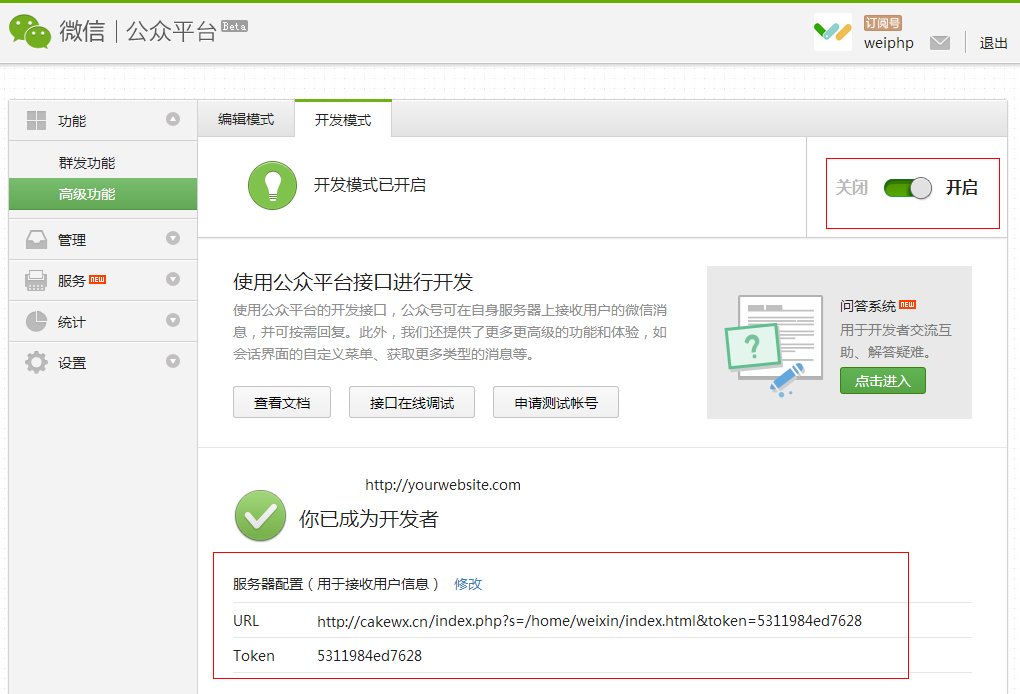
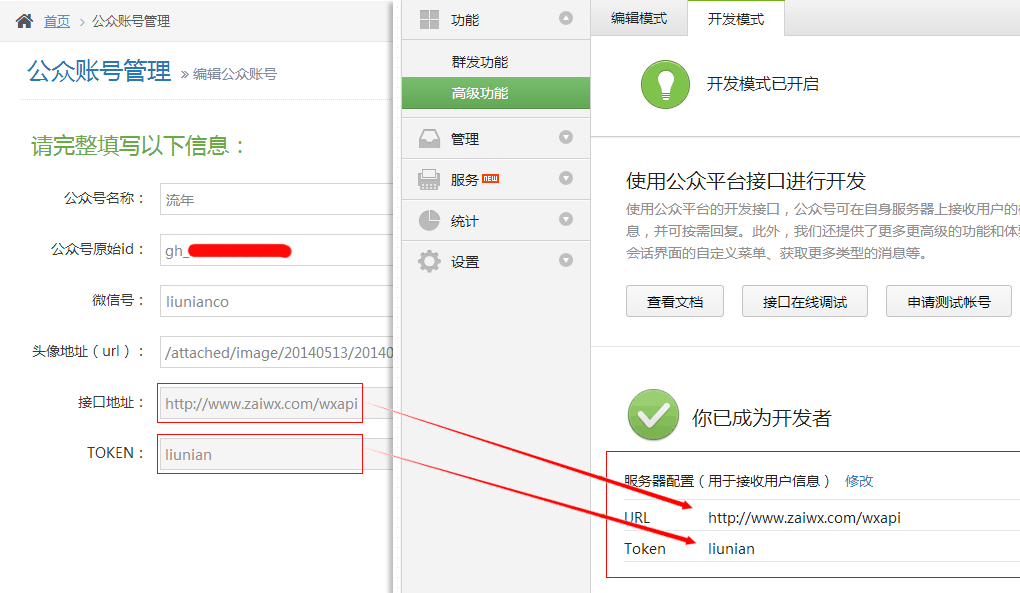
添加分站下载，调整界面

diff --git a/index.html b/index.html
@@ -8,8 +8,8 @@
 		<link href="http://libs.baidu.com/fontawesome/4.0.3/css/font-awesome.min.css" rel="stylesheet">
 		<style type="text/css">
 			.caption div{position: absolute;top:0px;left: 0;height: 240px;width: 380px;}
-			.caption p{text-align: center;color:#FFF;margin-top:20px;}
-			.caption p a{color:#FFF;}
+			.caption p{color:#FFF;margin-top: 20px;padding-left: 50px;font-size: 16px;}
+			.caption p a{color:#FFF;margin-right: 20px;}
 		</style>
 	</head>
 	
@@ -18,13 +18,14 @@
 		<div class="wrapper clearfix">
 			<!-- For navigation -->
 			<div class="tp-banner-container">
-				<div class="tp-banner whobuy" style="width:980px;margin:0 auto;border:0;height:540px;">
+				<div class="tp-banner whobuy" style="width:980px;margin:0 auto;border:0;height:580px;">
 					<div class="caption" style="float:left;margin-top:100px;position:relative;">
 						<img src="http://s01.liunian.mobi/cakewx/web/imac.png" alt="" class="img-responsive" />
-						<p ><img src="http://s01.liunian.mobi/cakewx/web/view.png" style="margin-right:10px;vertical-align:middle;"><a style="color:#FFF;margin-right:10px;font-size:16px;position:relative;top:2px;" href="http://www.zaiwx.com" target="_blank">马上注册帐号，即可体验 >></a> </p>
+						<p style="margin-top:20px;"><img src="http://s01.liunian.mobi/cakewx/web/view.png" style="margin-right:10px;vertical-align:middle;"><a style="color:#FFF;margin-right:10px;font-size:16px;position:relative;top:2px;" href="http://www.zaiwx.com" target="_blank">马上注册帐号，即可体验 >></a> </p>
+						<p><i class="fa fa-download"></i><span style="padding-left:15px;">分流下载：</span>&nbsp;&nbsp;<a href="http://down.admin5.com/php/110338.html" target="_blank">Admin5</a><a href="http://down.chinaz.com/soft/36130.htm" target="_blank">Chinaz</a></p>
 						<div class="trans"><img src="http://s01.liunian.mobi/cakewx/web/preview.png" style="margin:18px 0px 0px 16px;width:348px;height:208px;"></div>
 					</div>
-					<div style="float:left;margin:70px 0 0 100px;">
+					<div style="float:left;margin:70px 0 0 90px;">
 						<h2>CakeWX，微信公众平台开发框架</h2>
 						<div class="tp-caption custom_para">
 						   	<h4><i class="fa fa-folder-open-o"></i> 基于CakePHP，开源免费。</h4>

diff --git a/settings.html b/settings.html
@@ -20,10 +20,12 @@
 				        <p><img src="img/help1.png"></p>
 				        <p>2.在CakeWX里增加公众号, 需要填写的信息来源如下图所示。图中右边是增加公众号的表单，左边是上一步打开的公众号信息页面</p>
 				        <div> <img src="img/help2.png"></div>
-				        <p>&nbsp;</p>
-				        <p>2.以下是你的公众号的配置信息<br>
+				        <p>以下是你的公众号的配置信息<br>
 				          你的接口URL是：<span style="color: #FF0000">http://www.zaiwx.com/wxapi</span><br>
 				          Token：<span style="color: #F00">liunian</span></p>
+				        <p>3. 在微信公众管理平台里进入开发模式，并把开发模型开启，开启后成为开发者，接着配置URL和Token,这两个值如下图所示。</p>
+				        <p><img src="img/help3.png"></p>
+				        <p>至此配置完毕，如果配置过程中有问题，可查看<a href="http://mp.weixin.qq.com/wiki/index.php?title=%E6%8E%A5%E5%85%A5%E6%8C%87%E5%8D%97" target="_blank">微信的说明文档</a>	</p>
 				   	</dd>
 			      </dl>
 			    </div> 

diff --git a/css/style.css b/css/style.css
@@ -17,7 +17,6 @@ body{
 	font-size:14px;
 	font-family: 'Microsoft Yahei', sans-serif;
 	-webkit-font-smoothing: antialiased;
-	overflow:hidden !important;
 	background: #609cec url("http://s01.liunian.mobi/cakewx/web/overlay.png") repeat;
 }
 
